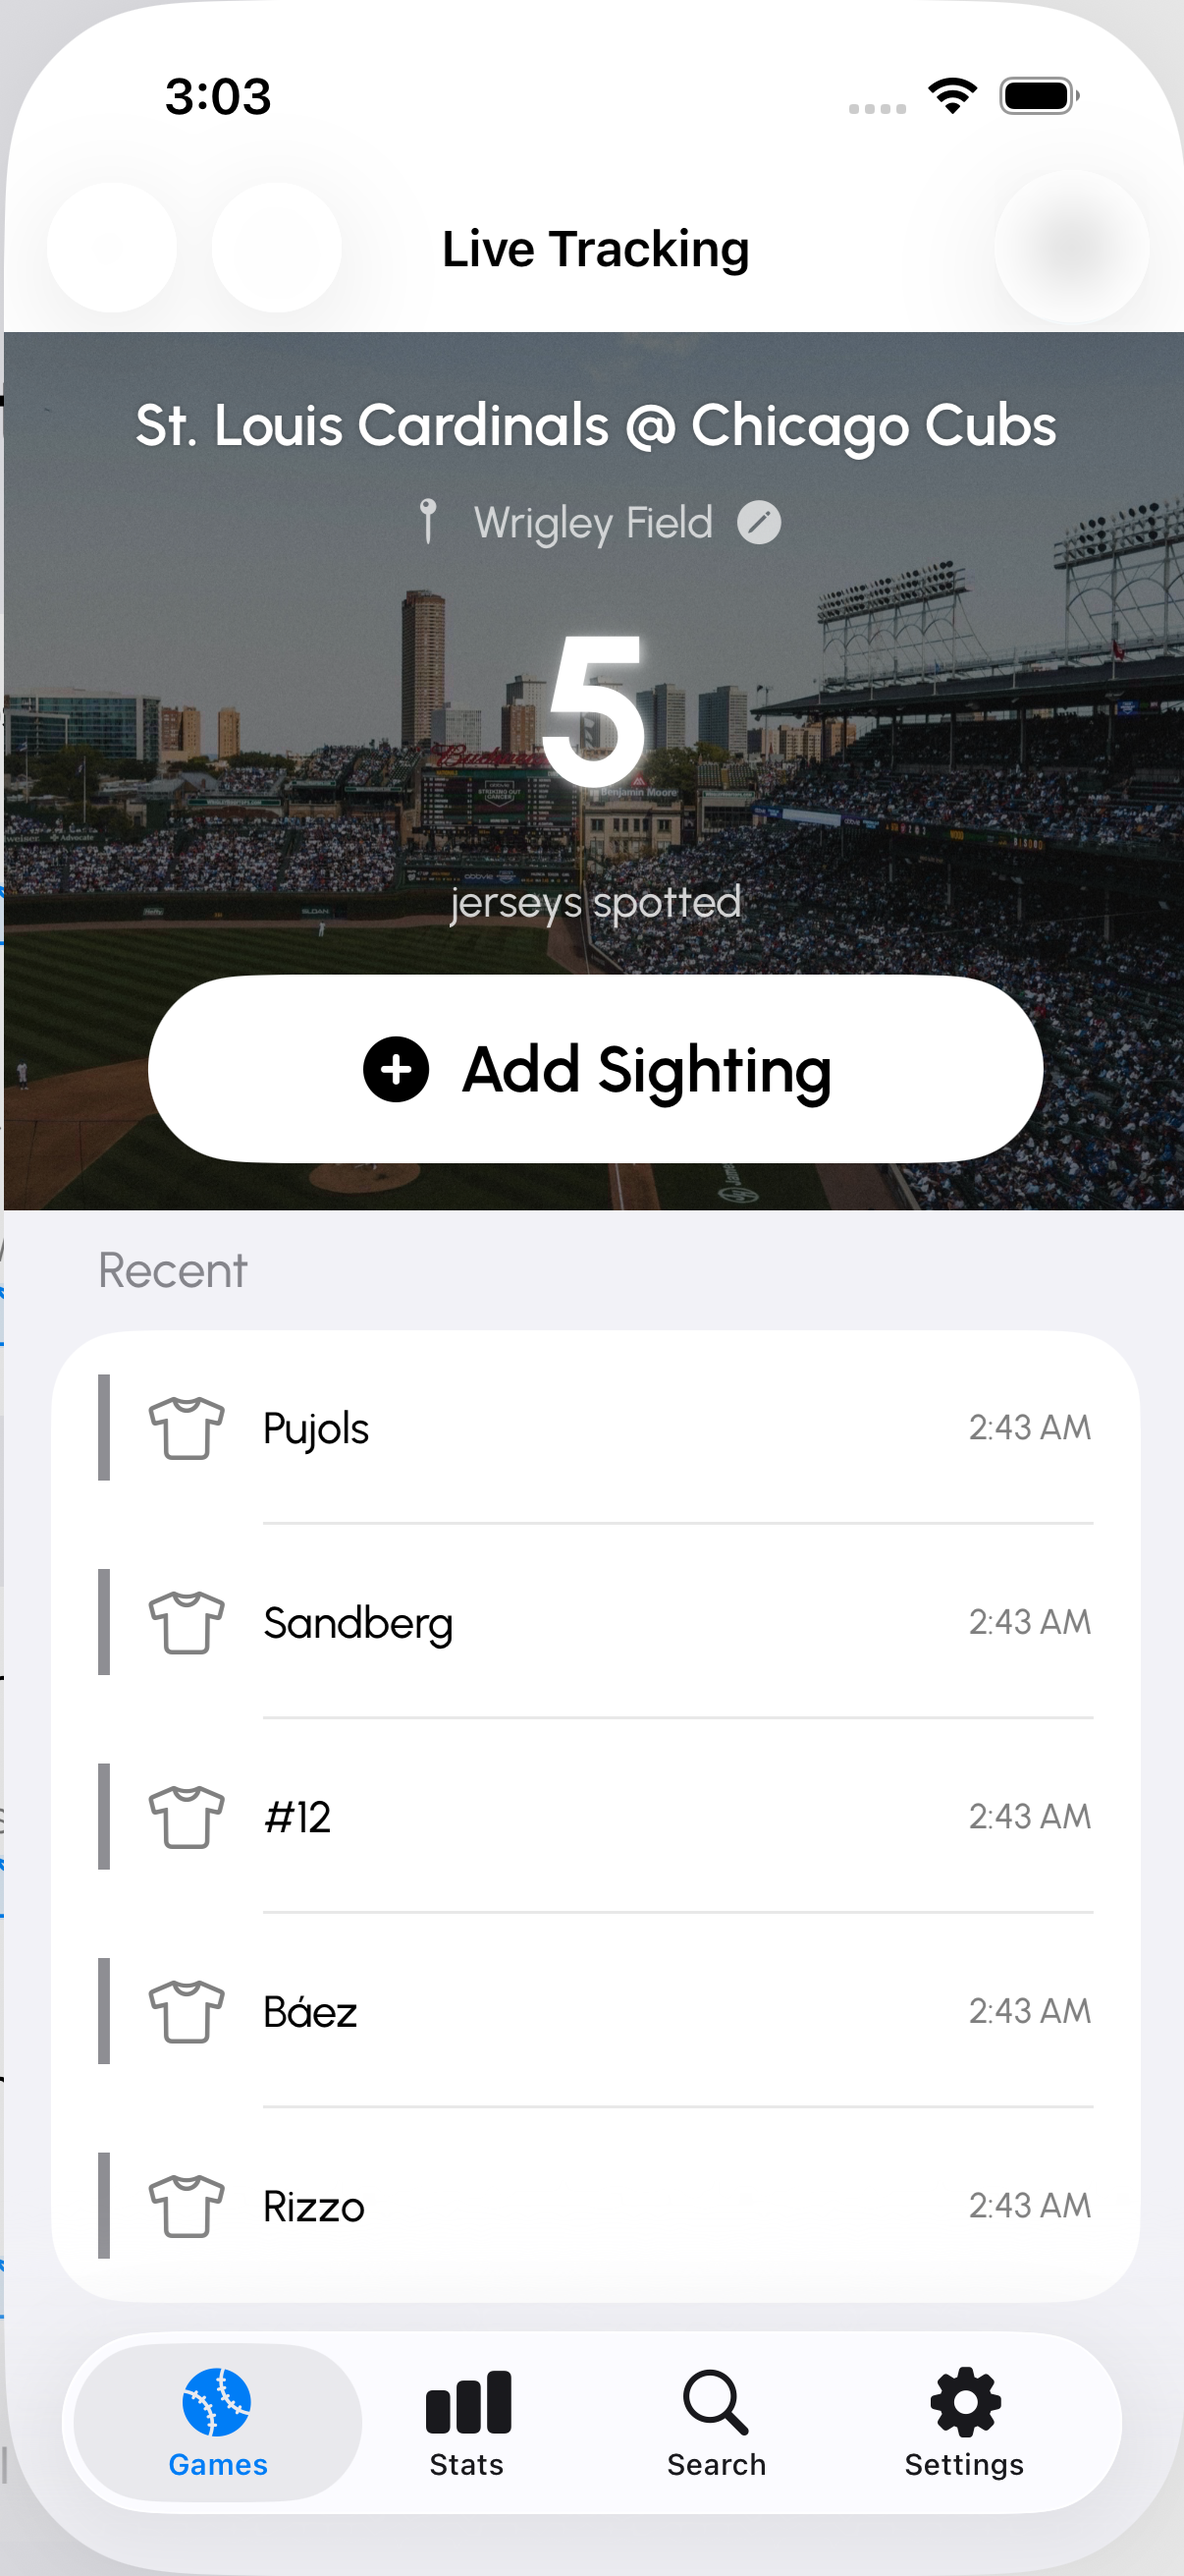
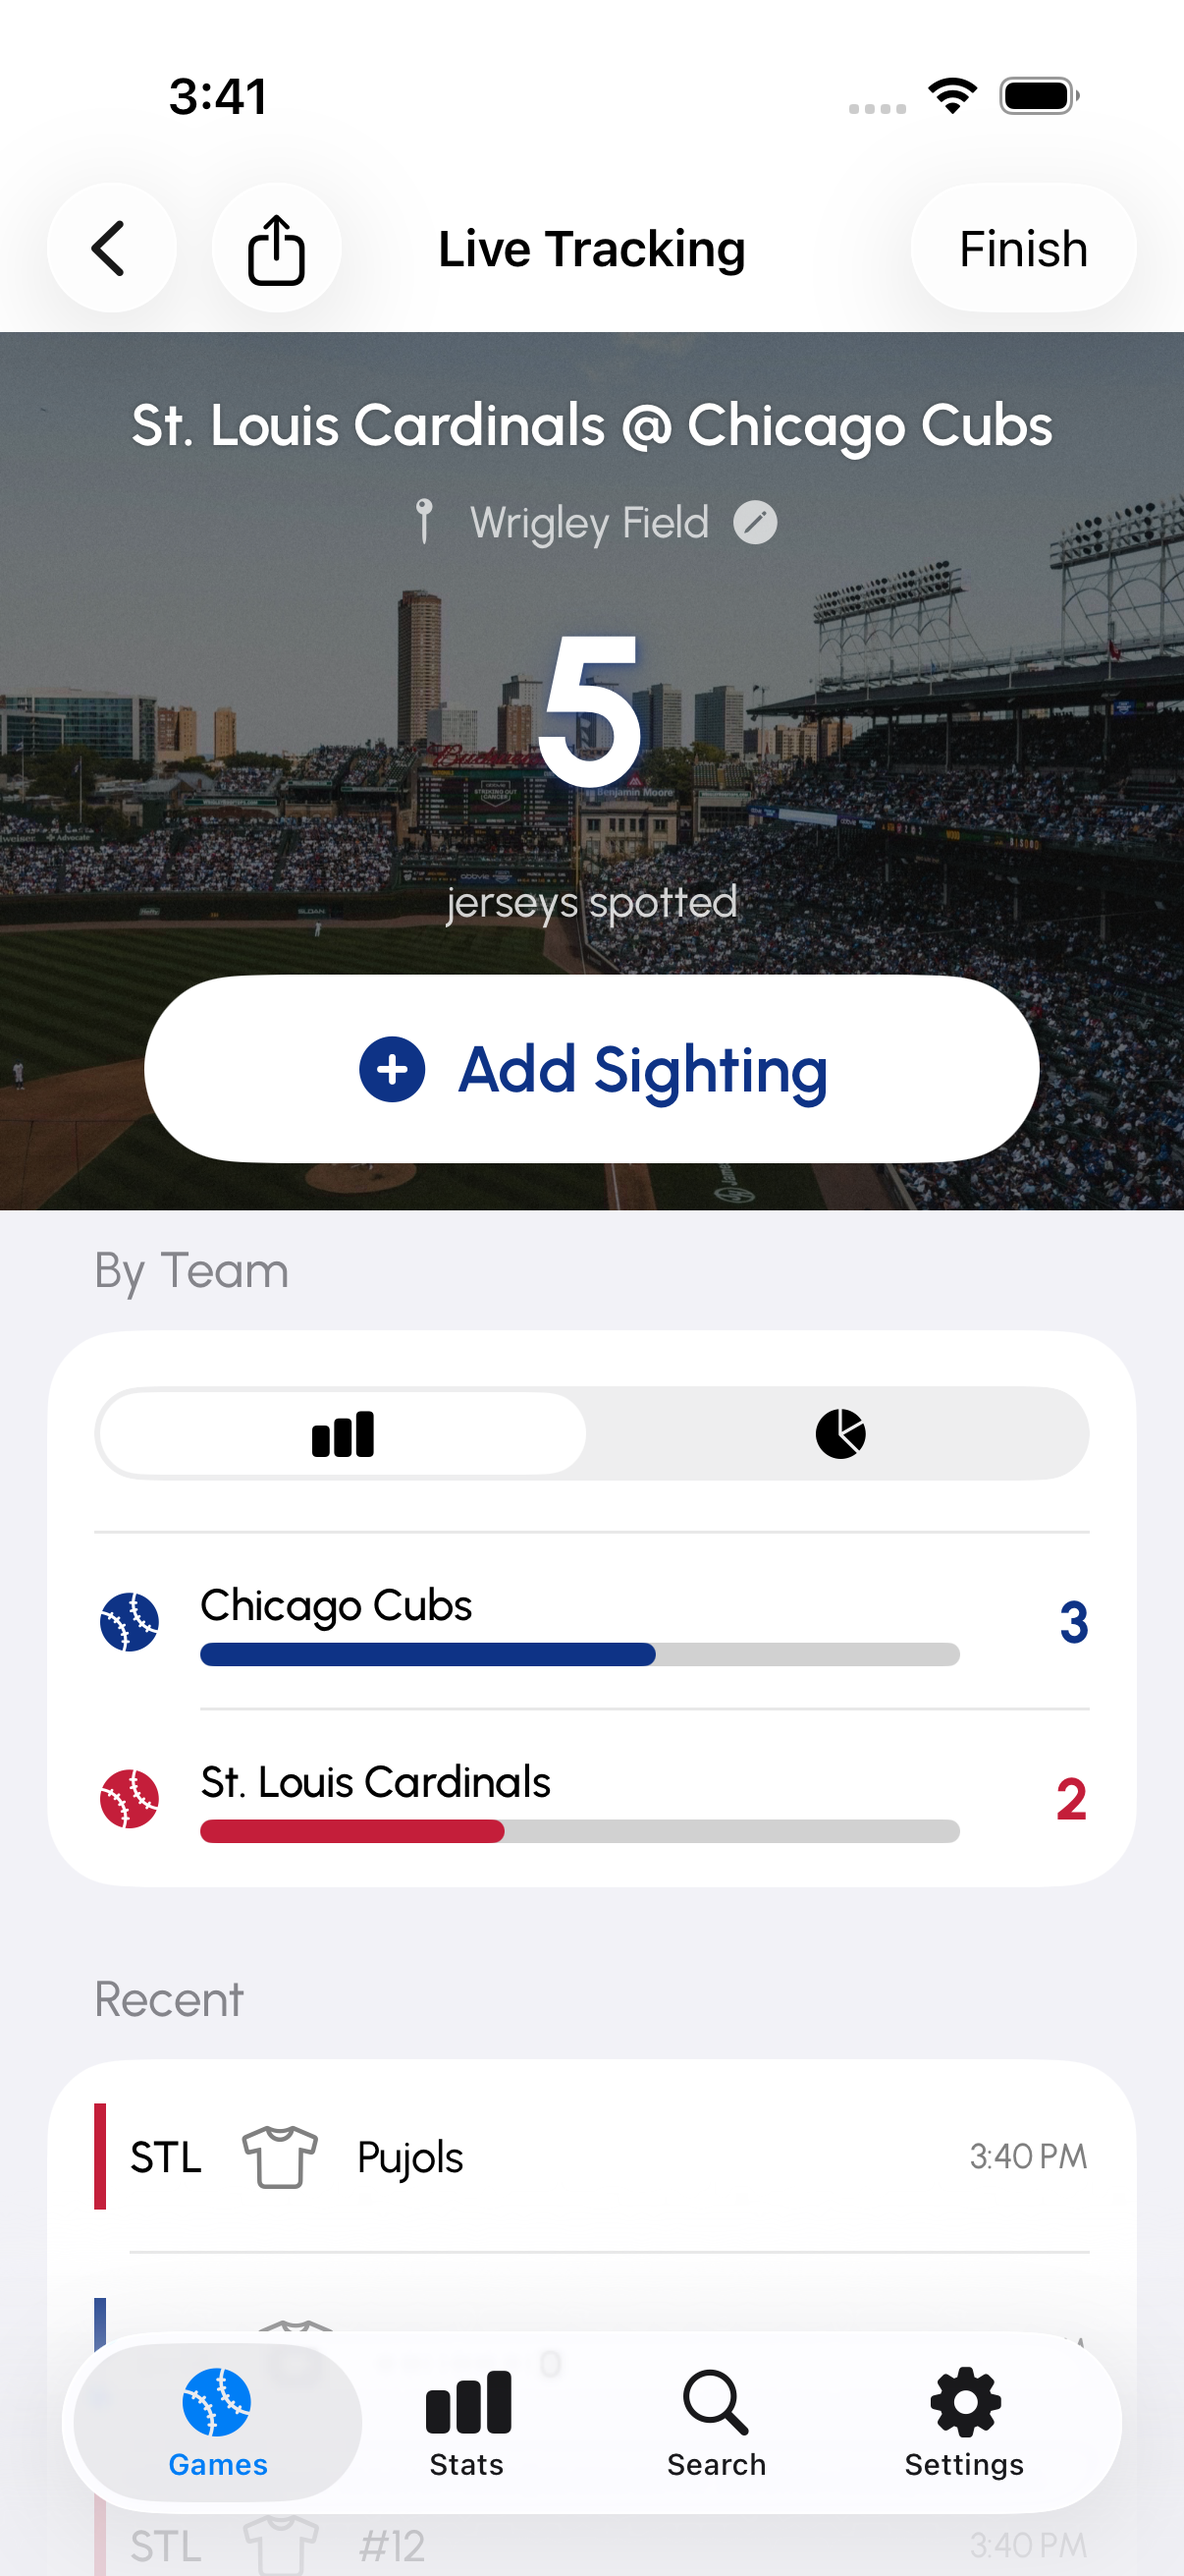
fix: populate screenshot seed data and derived stats

diff --git a/SeenAt/SeenAtUITests/ScreenshotUITests.swift b/SeenAt/SeenAtUITests/ScreenshotUITests.swift
@@ -20,7 +20,7 @@ final class ScreenshotUITests: XCTestCase {
         app.launch()
 
         let skip = app.buttons["Skip"]
-        if skip.waitForExistence(timeout: 2) {
+        if skip.waitForExistence(timeout: 15) {
             guard tapWhenHittable(skip) else {
                 XCTFail("Onboarding Skip button did not become hittable")
                 return
@@ -38,33 +38,33 @@ final class ScreenshotUITests: XCTestCase {
 
         // 2. Navigate to LiveTrackingView via first Today event
         let todayBtn = app.buttons.matching(NSPredicate(format: "label CONTAINS 'Cardinals'")).firstMatch
-        guard todayBtn.waitForExistence(timeout: 15), tapWhenHittable(todayBtn) else {
+        let liveTrackingTitle = app.staticTexts["St. Louis Cardinals @ Chicago Cubs"]
+        guard todayBtn.waitForExistence(timeout: 15),
+              tapAndWaitFor(todayBtn, destination: liveTrackingTitle) else {
             XCTFail("Seeded Cardinals event did not become tappable")
             return
         }
-        guard app.staticTexts["St. Louis Cardinals @ Chicago Cubs"].waitForExistence(timeout: 15) else {
-            XCTFail("Live Tracking screen did not load")
-            return
-        }
         capture("LiveTrackingView")
-        let liveTrackingBack = app.navigationBars.buttons.firstMatch
+        let liveTrackingBack = app.navigationBars.buttons["SeenAt"]
         guard tapWhenHittable(liveTrackingBack), gamesNavigationBar.waitForExistence(timeout: 10) else {
             XCTFail("Could not return from Live Tracking screen")
             return
         }
 
         // 3. Navigate to EventSummaryView via a Recent event
-        let pastBtn = app.buttons.matching(NSPredicate(format: "label CONTAINS 'Packers'")).firstMatch
-        guard pastBtn.waitForExistence(timeout: 10), tapWhenHittable(pastBtn) else {
-            XCTFail("Seeded Packers event did not become tappable")
+        let pastBtn = app.buttons.matching(NSPredicate(format: "label CONTAINS 'Giants'")).firstMatch
+        let eventSummaryTitle = app.staticTexts["San Francisco Giants @ Los Angeles Dodgers"]
+        guard pastBtn.waitForExistence(timeout: 10),
+              tapAndWaitFor(pastBtn, destination: eventSummaryTitle) else {
+            XCTFail("Seeded Giants event did not become tappable")
             return
         }
-        guard app.staticTexts["Green Bay Packers @ Chicago Bears"].waitForExistence(timeout: 15) else {
+        guard app.staticTexts["Los Angeles Dodgers"].waitForExistence(timeout: 15) else {
             XCTFail("Event Summary screen did not load")
             return
         }
         capture("EventSummaryView")
-        let summaryBack = app.navigationBars.buttons.firstMatch
+        let summaryBack = app.navigationBars.buttons["SeenAt"]
         guard tapWhenHittable(summaryBack), gamesNavigationBar.waitForExistence(timeout: 10) else {
             XCTFail("Could not return from Event Summary screen")
             return
@@ -72,7 +72,9 @@ final class ScreenshotUITests: XCTestCase {
 
         // 5. Stats tab
         let statsTab = app.tabBars.buttons["Stats"]
-        guard tapWhenHittable(statsTab), app.navigationBars["Stats"].waitForExistence(timeout: 10) else {
+        guard tapWhenHittable(statsTab),
+              app.navigationBars["Stats"].waitForExistence(timeout: 10),
+              app.staticTexts["St. Louis Cardinals"].waitForExistence(timeout: 15) else {
             XCTFail("Stats screen did not load")
             return
         }
@@ -92,7 +94,8 @@ final class ScreenshotUITests: XCTestCase {
             XCTFail("Favorite Teams screen did not become tappable")
             return
         }
-        guard app.navigationBars["Favorite Teams"].waitForExistence(timeout: 10) else {
+        guard app.navigationBars["Favorite Teams"].waitForExistence(timeout: 10),
+              app.staticTexts["Arizona Diamondbacks"].waitForExistence(timeout: 15) else {
             XCTFail("Favorite Teams screen did not load")
             return
         }
@@ -109,6 +112,24 @@ final class ScreenshotUITests: XCTestCase {
             RunLoop.current.run(until: Date().addingTimeInterval(0.25))
         }
         return false
+    }
+
+    private func tapAndWaitFor(
+        _ trigger: XCUIElement,
+        destination: XCUIElement,
+        timeout: TimeInterval = 15
+    ) -> Bool {
+        let deadline = Date().addingTimeInterval(timeout)
+        while Date() < deadline {
+            if destination.exists {
+                return true
+            }
+            if trigger.exists && trigger.isHittable {
+                trigger.tap()
+            }
+            RunLoop.current.run(until: Date().addingTimeInterval(0.5))
+        }
+        return destination.exists
     }
 
     private func capture(_ name: String) {

diff --git a/SeenAt/SeenAt/SeedData.swift b/SeenAt/SeenAt/SeedData.swift
@@ -73,6 +73,17 @@ enum SeedData {
         addSighting(context: context, team: team("Chicago Blackhawks"), firstName: "Toews", number: "19", event: e5)
         addSighting(context: context, team: team("Chicago Blackhawks"), number: "50", event: e5)
 
+        // Event 6 — Yesterday, Giants @ Dodgers at Dodger Stadium (stadium)
+        let e6 = Event(awayTeam: "San Francisco Giants", homeTeam: "Los Angeles Dodgers", date: date(yesterday, hour: 18), venue: "Dodger Stadium", watchLocation: .stadium)
+        e6.id = UUID(uuidString: "66666666-6666-6666-6666-666666666666")!
+        context.insert(e6)
+
+        addSighting(context: context, team: team("Los Angeles Dodgers"), firstName: "Ohtani", number: "17", event: e6)
+        addSighting(context: context, team: team("San Francisco Giants"), firstName: "Posey", number: "28", event: e6)
+        addSighting(context: context, team: team("Los Angeles Dodgers"), firstName: "Betts", number: "50", event: e6)
+        addSighting(context: context, team: team("San Francisco Giants"), number: "9", event: e6)
+        addSighting(context: context, team: team("Los Angeles Dodgers"), firstName: "Freeman", number: "5", event: e6)
+
         context.saveAndLog("Failed to save seed data")
     }
 

diff --git a/SeenAt/SeenAt/SeenAtApp.swift b/SeenAt/SeenAt/SeenAtApp.swift
@@ -52,6 +52,13 @@ struct SeenAtApp: App {
                 storeURL: storeURL,
                 applicationSupportURL: StoreBackupService.applicationSupportURL(for: storeURL)
             )
+            UserDefaults.standard.removeObject(forKey: "hasSeededTeams")
+            UserDefaults.standard.removeObject(forKey: "seedVersion")
+            UserDefaults.standard.set(
+                "Chicago Cubs,Los Angeles Dodgers,St. Louis Cardinals",
+                forKey: "favoriteTeams"
+            )
+            UserDefaults.standard.set(true, forKey: "hasSeenOnboarding")
         }
         #endif
         let result = StoreLauncher.launch { config in
